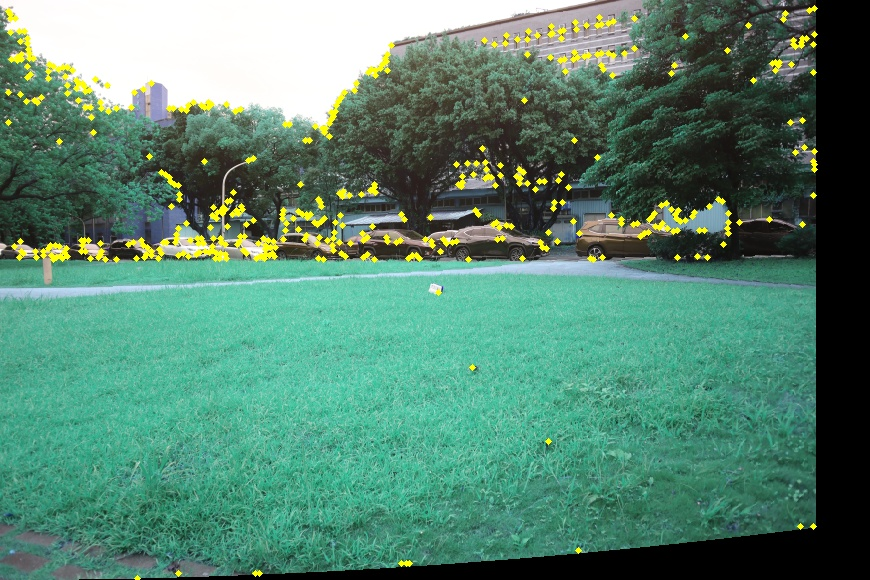
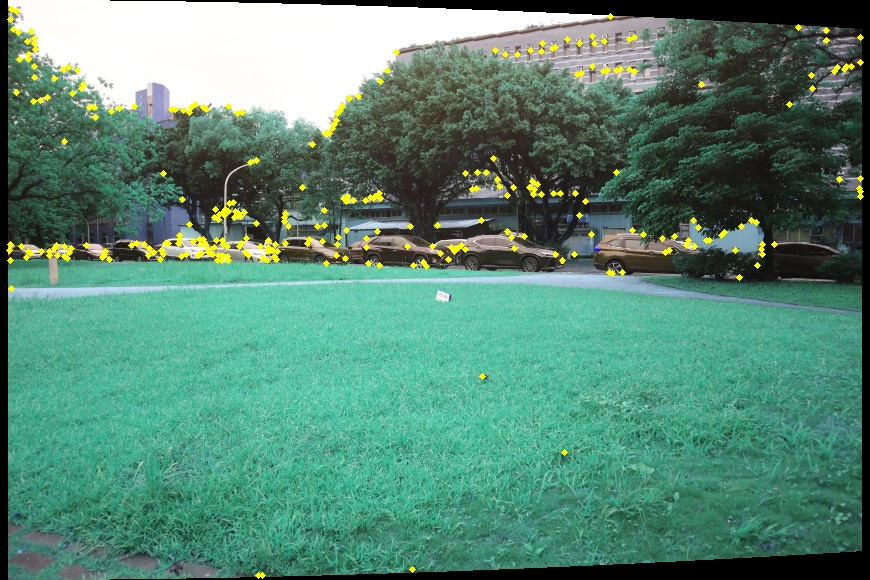
[WIP] Image blending: checking the stitching offset.

diff --git a/util.py b/util.py
@@ -15,12 +15,12 @@ class Matching():
             images: np.array,
             focal_len: float,
             k_size: int=5,
-            corner_resp_weight: float=1,  # Modify this attribute to control the number of feature points. Higher value leads to fewer points.
+            corner_resp_weight: float=0.5,  # Modify this attribute to control the number of feature points. Higher value leads to fewer points.
             n_bins: float=8,
             p_size: int=8,
             desc_thres: float=0.2,
             match_dist_ratio: float=0.8,
-            n_iter: int=10000,
+            n_iter: int=100000,
             ransac_in_thres: int=5,
             visualization: bool=True,
         ) -> None:
@@ -44,10 +44,13 @@ class Matching():
     def warping(self, images):
         warped_images = np.zeros(images.shape, 'uint8')
 
+        x_center = self.w // 2
+        y_center = self.h // 2
+
         for new_y in range(self.h):
             for new_x in range(self.w):
-                x = round(self.focal_len * math.tan((new_x) / self.focal_len))
-                y = round(math.sqrt(x**2 + self.focal_len ** 2) * (new_y) / self.focal_len)
+                x = round(self.focal_len * math.tan((new_x - x_center) / self.focal_len) + x_center)
+                y = round(math.sqrt(x**2 + self.focal_len ** 2) * (new_y - y_center) / self.focal_len + y_center)
                 
                 if (0 <= x) and (x < self.w) and (0 <= y) and (y < self.h):
                     warped_images[: , new_y, new_x, :] = images[: , y, x, ::-1]
@@ -160,7 +163,7 @@ class Matching():
                 coords_2.append(feat_points_2[j1])
         
         if self.visualization:
-            plot_feature_match(image_2, coords_2, image_1, coords_1, './test_data/visualization/feature_match.jpg')
+            plot_feature_match(image_1, coords_1, image_2, coords_2, './test_data/visualization/feature_match.jpg')
 
         return coords_1, coords_2
 
@@ -332,7 +335,7 @@ class Matching():
         for coord_pair in tqdm(coord_pairs):
             n_sample = len(coord_pair[0])
             n_subSample = n_sample // 10
-            homo_matrix = self.RANSAC(coord_pair, n_sample=n_sample, n_iter=self._n_iter, n_subSample=n_subSample, threshold=self._ransac_in_thres)
+            homo_matrix = self.RANSAC(coord_pair, n_sample=n_sample, n_iter=self._n_iter, n_subSample=4, threshold=self._ransac_in_thres)
             homo_matrices.append(homo_matrix)
         
         return np.array(homo_matrices)
@@ -406,25 +409,99 @@ class Matching():
     
     def blending(
             self,
-            homomat
-    ):
-        res = self.images[0]
-        inv_H = np.linalg.inv(homomat)
-        for i in range(1, self.n_images):
-            left_img = res
-            right_img = self.images[i]
-            (lh, lw) = left_img[:2]
-            (rh, rw) = right_img[:2]
-            stitch_res = np.zeros((max(lh, rh), lw+rw, 3), dtype='int')
-            for i in range(stitch_res.shape[0]):
-                for j in range(stitch_res.shape[1]):
-                    coor = np.array([j, i, 1])
-                    res_img_coor = inv_H @ coor
-                    res_img_coor /= res_img_coor[2]
-                    ## TODO: knn or  bilinear interpolation
-                    y, x = int(round(res_img_coor[0])), int(round(res_img_coor[1]))
-                    if x < 0 or x >= rh or y < 0 or y >= rw:
-                        continue
-                    stitch_res[i, j] = right_img[x, y]
+            homomats: np.array,
+    ) -> np.array:
+        '''Blend images and create panorama.
 
-        ## TODO: blending
+        Args:
+            homomats (np.array): An array of homography matrices.
+        
+        Return:
+            Panorama (np.array).
+        '''
+        print(f'Image blending...')
+
+        # res = self.images[0]
+        # inv_H = np.linalg.inv(homomat)
+        # for i in range(1, self.n_images):
+        #     left_img = res
+        #     right_img = self.images[i]
+        #     (lh, lw) = left_img[:2]
+        #     (rh, rw) = right_img[:2]
+        #     stitch_res = np.zeros((max(lh, rh), lw+rw, 3), dtype='int')
+        #     for i in range(stitch_res.shape[0]):
+        #         for j in range(stitch_res.shape[1]):
+        #             coor = np.array([j, i, 1])
+        #             res_img_coor = inv_H @ coor
+        #             res_img_coor /= res_img_coor[2]
+        #             ## TODO: knn or  bilinear interpolation
+        #             y, x = int(round(res_img_coor[0])), int(round(res_img_coor[1]))
+        #             if x < 0 or x >= rh or y < 0 or y >= rw:
+        #                 continue
+        #             stitch_res[i, j] = right_img[x, y]
+
+        # ## TODO: blending
+
+        # Implemented by yhfang
+        panorama = np.zeros((self.h, self.w * self.n_images, 3))
+        h, w, c = self.images[0].shape
+        panorama[:h, :w] = self.images[0]
+        w_offset = w
+
+        H = np.identity(3)
+        i = 0
+        for image, Hi in tqdm(zip(self.images[1: ], homomats), total=len(homomats)):
+            panorama, w_offset = self._blend_two_images(image, panorama.copy(), Hi, w_offset)
+            
+            i += 1
+            if self.visualization:
+                cv2.imwrite(f'./test_data/visualization/panorama_{i}.png', panorama)
+    
+    def _blend_two_images(
+        self,
+        src_img,
+        dst_img,
+        H,
+        w_offset,
+    ):
+        '''Blend two images linearly.
+        '''
+        h, w, c = src_img.shape
+
+        x_mesh, y_mesh = np.meshgrid(np.arange(0, w), np.arange(0, h))
+        x_mesh = x_mesh.flatten()
+        y_mesh = y_mesh.flatten()
+
+        # Backward warping
+        dst_coord = np.stack([x_mesh, y_mesh, np.ones_like(x_mesh)])
+        src_coord = np.linalg.inv(H) @ dst_coord
+        src_coord /= src_coord[2]
+
+        # Remove points that are out of range.
+        mask = np.logical_or(np.logical_or(src_coord[0] < 0, src_coord[0] >= w - 1), 
+                            np.logical_or(src_coord[1] < 0, src_coord[1] >= h - 1))  # (self.h * self.w * self.n_images,)
+        src_x, src_y = np.delete(src_coord[0], mask), np.delete(src_coord[1], mask)  # (2149,), (2149,)
+        dst_x, dst_y = np.delete(dst_coord[0], mask), np.delete(dst_coord[1], mask)
+
+        dst_img[dst_y, w_offset + dst_x] = self._bilinear_interpolate(src_img, src_x, src_y)
+
+        return dst_img, max(w_offset + dst_x)
+
+    def _bilinear_interpolate(
+        self,
+        src,
+        src_x,
+        src_y,
+    ) -> np.array: 
+        dx = src_x - src_x.astype(int)
+        dy = src_y - src_y.astype(int)
+
+        a = (1 - dx) * (1 - dy)  # The weight to the bottom left point.
+        b = dx *  (1 - dy)   # The weight to the bottom right
+        c = dx * dy  # The weight to the upper right
+        d = (1 - dx) * dy  # The weight to the upper left
+
+        src_x = src_x.astype(int)
+        src_y = src_y.astype(int)
+
+        return a[..., None] * src[src_y, src_x] + b[..., None] * src[src_y, src_x + 1] + c[..., None] * src[src_y + 1, src_x + 1] + d[..., None] * src[src_y + 1, src_x]

diff --git a/main.py b/main.py
@@ -13,7 +13,7 @@ def parse_arguments():
     parser = ArgumentParser()
     parser.add_argument('--root', type=str, default='images')
     parser.add_argument('--result_path', type=str, default='../result')
-    parser.add_argument("--focal_len", type=float, default=1900)
+    parser.add_argument("--focal_len", type=float, default=1800)
     args = parser.parse_args()
     return args
 
@@ -40,7 +40,6 @@ def load_images(root):
     return np.array(images)
 
 
-
 def main(args):
     images = load_images(args.root)
     print(images.shape)
@@ -56,15 +55,11 @@ def main(args):
 
     # image matching:
     homo_matrices = match.image_matching(coord_pairs)
-    # for coord_pair in tqdm(coord_pairs):
-    #     n_sample = len(coord_pair[0])
-    #     n_subSample = n_sample // 10
-    #     homo_matrix = match.RANSAC(coord_pair, n_sample=n_sample, n_iter=100, n_subSample=n_subSample, threshold=5)
-    #     homo_matrices.append(homo_matrix)
-
-    # bundle adjustment:
 
     # blending:
+    panorama = match.blending(homo_matrices)
+
+    # bundle adjustment:
 
     
 if __name__ == '__main__':
